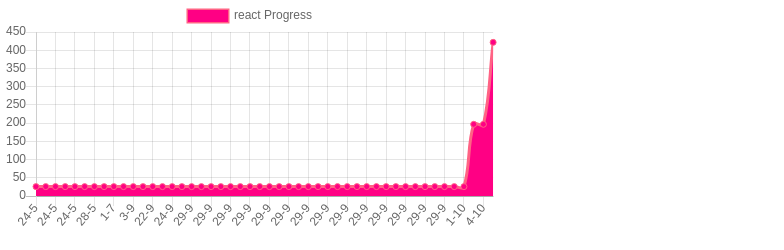
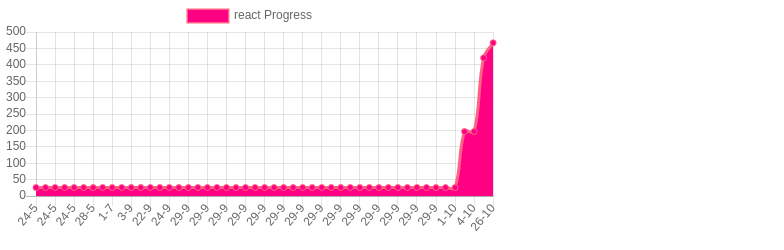
react: custom hooks with localStorage

Changed region(s): [[0.0, 0.14, 0.6429, 0.924], [0.0, 0.112, 0.0306, 0.14]]

diff --git a/total.html b/total.html
@@ -9,7 +9,7 @@
         <script src="https://cdn.jsdelivr.net/npm/chart.js@2.8.0"></script>
         <script>
           var ctx = document.getElementById("total").getContext("2d");
-          const goLabelsDates = ["2021-02-27T01:37:43.112Z","2021-02-27T01:38:01.628Z","2021-03-01T13:41:18.753Z","2021-03-01T14:53:41.991Z","2021-03-01T15:08:00.851Z","2021-03-01T15:09:10.635Z","2021-03-01T15:22:55.385Z","2021-03-03T15:31:41.151Z","2021-03-05T14:02:13.446Z","2021-03-10T14:50:13.297Z","2021-03-11T01:54:03.424Z","2021-03-11T15:32:47.647Z","2021-03-11T16:01:51.191Z","2021-03-12T00:36:04.646Z","2021-03-13T00:14:58.179Z","2021-03-16T05:30:04.043Z","2021-03-17T21:17:52.181Z","2021-03-18T03:42:56.998Z","2021-03-18T03:44:29.834Z","2021-03-18T03:45:35.160Z","2021-03-18T03:45:54.668Z","2021-03-18T03:48:46.007Z","2021-03-18T05:10:54.427Z","2021-03-18T05:44:13.724Z","2021-03-18T05:56:11.032Z","2021-03-18T22:11:28.339Z","2021-03-19T11:28:55.383Z","2021-03-22T13:51:43.977Z","2021-03-23T01:52:09.452Z","2021-03-23T15:45:53.765Z","2021-03-24T01:46:02.104Z","2021-03-30T10:56:50.711Z","2021-04-01T15:03:17.764Z","2021-04-01T23:15:02.096Z","2021-04-07T19:21:55.040Z","2021-04-08T15:21:14.479Z","2021-04-09T23:17:58.037Z","2021-04-09T23:32:26.341Z","2021-04-09T23:34:42.049Z","2021-04-09T23:36:18.092Z","2021-04-10T01:45:40.218Z","2021-04-12T15:41:26.676Z","2021-04-14T02:00:41.039Z","2021-04-14T20:02:44.141Z","2021-04-14T21:14:15.821Z","2021-04-14T22:06:37.573Z","2021-04-14T22:42:14.693Z","2021-04-14T23:10:13.243Z","2021-04-14T23:22:54.824Z","2021-04-14T23:49:37.009Z","2021-04-15T02:28:51.974Z","2021-04-15T14:33:50.618Z","2021-04-15T15:09:11.104Z","2021-04-15T20:35:30.580Z","2021-04-16T00:04:33.158Z","2021-04-16T01:36:06.294Z","2021-04-16T01:53:35.992Z","2021-04-16T02:00:15.474Z","2021-04-16T16:08:40.977Z","2021-04-16T16:27:06.953Z","2021-04-16T16:59:30.526Z","2021-04-16T17:00:53.737Z","2021-04-16T23:14:36.283Z","2021-04-17T00:39:16.890Z","2021-04-17T01:11:09.986Z","2021-04-17T01:32:30.011Z","2021-04-17T01:44:22.446Z","2021-04-17T01:44:33.941Z","2021-04-17T02:35:55.774Z","2021-04-19T15:41:31.091Z","2021-04-20T15:32:32.239Z","2021-04-20T15:33:16.014Z","2021-04-20T15:36:11.438Z","2021-04-20T15:38:44.606Z","2021-04-20T15:41:50.350Z","2021-04-20T15:44:34.448Z","2021-04-20T15:46:49.295Z","2021-04-20T15:47:24.048Z","2021-04-20T15:56:22.046Z","2021-04-20T16:00:02.540Z","2021-04-20T16:01:15.511Z","2021-04-20T23:19:23.938Z","2021-04-21T00:40:54.443Z","2021-04-21T00:47:22.662Z","2021-04-21T02:01:09.006Z","2021-04-21T02:19:22.734Z","2021-04-21T15:53:36.038Z","2021-04-21T16:21:45.704Z","2021-04-21T16:26:32.790Z","2021-04-21T16:40:24.916Z","2021-04-21T16:43:40.235Z","2021-04-21T16:43:59.719Z","2021-04-21T16:44:40.304Z","2021-04-21T16:46:13.191Z","2021-04-21T16:48:41.898Z","2021-04-21T16:49:08.753Z","2021-04-21T16:50:32.397Z","2021-04-21T16:51:58.778Z","2021-04-23T00:49:32.826Z","2021-04-23T15:03:06.320Z","2021-04-23T15:04:13.039Z","2021-04-23T15:05:25.923Z","2021-04-23T15:11:04.285Z","2021-04-23T15:11:38.826Z","2021-04-23T15:12:05.618Z","2021-04-23T15:12:32.508Z","2021-04-23T15:13:17.058Z","2021-04-23T17:08:27.046Z","2021-04-23T18:02:30.357Z","2021-04-23T22:58:36.946Z","2021-04-23T23:00:26.027Z","2021-04-23T23:52:58.438Z","2021-04-24T01:12:51.525Z","2021-04-24T02:01:46.612Z","2021-04-26T12:46:47.336Z","2021-04-26T13:13:50.946Z","2021-04-26T13:16:04.473Z","2021-04-27T00:11:42.582Z","2021-04-30T03:26:37.101Z","2021-04-30T04:33:42.472Z","2021-04-30T05:15:42.646Z","2021-04-30T14:31:10.927Z","2021-05-04T01:51:49.907Z","2021-05-21T00:30:21.777Z","2021-05-24T15:07:09.579Z","2021-05-24T15:08:05.658Z","2021-05-24T15:22:20.903Z","2021-05-24T15:33:34.626Z","2021-05-24T15:46:16.101Z","2021-05-24T15:48:12.171Z","2021-05-24T15:53:54.498Z","2021-05-24T15:56:18.488Z","2021-05-28T22:50:32.914Z","2021-06-02T17:58:30.866Z","2021-07-01T05:04:25.826Z","2021-07-01T05:05:33.079Z","2021-09-03T16:56:54.023Z","2021-09-23T00:10:19.737Z","2021-09-23T00:54:30.987Z","2021-09-25T00:13:33.106Z","2021-09-25T00:56:09.874Z","2021-09-29T20:37:10.460Z","2021-09-29T20:39:45.107Z","2021-09-29T20:45:08.406Z","2021-09-29T20:45:42.995Z","2021-09-29T20:51:54.166Z","2021-09-29T21:04:45.487Z","2021-09-29T21:22:49.580Z","2021-09-29T21:23:34.860Z","2021-09-29T21:24:52.804Z","2021-09-29T21:25:12.938Z","2021-09-29T21:31:41.466Z","2021-09-29T21:32:02.856Z","2021-09-29T21:32:15.096Z","2021-09-29T21:37:01.273Z","2021-09-29T21:39:46.109Z","2021-09-29T21:40:23.862Z","2021-09-29T21:41:38.242Z","2021-09-29T21:45:36.053Z","2021-09-29T21:48:31.229Z","2021-09-29T21:49:46.414Z","2021-09-29T21:50:16.628Z","2021-09-29T21:52:23.035Z","2021-09-29T21:58:46.153Z","2021-09-29T21:59:06.075Z","2021-09-29T22:09:34.545Z","2021-09-29T22:24:59.487Z","2021-09-29T22:39:38.616Z","2021-09-29T23:07:40.178Z","2021-10-01T13:21:48.217Z","2021-10-01T14:11:47.682Z","2021-10-05T00:24:42.303Z","2021-10-05T14:36:34.233Z","2021-10-05T15:30:47.628Z","2021-10-13T14:16:32.194Z","2021-10-14T20:31:14.540Z","2021-10-15T02:04:50.667Z","2021-10-22T22:01:46.214Z","2021-10-26T00:04:54.365Z","2021-10-26T00:05:44.432Z",];
+          const goLabelsDates = ["2021-02-27T01:37:43.112Z","2021-02-27T01:38:01.628Z","2021-03-01T13:41:18.753Z","2021-03-01T14:53:41.991Z","2021-03-01T15:08:00.851Z","2021-03-01T15:09:10.635Z","2021-03-01T15:22:55.385Z","2021-03-03T15:31:41.151Z","2021-03-05T14:02:13.446Z","2021-03-10T14:50:13.297Z","2021-03-11T01:54:03.424Z","2021-03-11T15:32:47.647Z","2021-03-11T16:01:51.191Z","2021-03-12T00:36:04.646Z","2021-03-13T00:14:58.179Z","2021-03-16T05:30:04.043Z","2021-03-17T21:17:52.181Z","2021-03-18T03:42:56.998Z","2021-03-18T03:44:29.834Z","2021-03-18T03:45:35.160Z","2021-03-18T03:45:54.668Z","2021-03-18T03:48:46.007Z","2021-03-18T05:10:54.427Z","2021-03-18T05:44:13.724Z","2021-03-18T05:56:11.032Z","2021-03-18T22:11:28.339Z","2021-03-19T11:28:55.383Z","2021-03-22T13:51:43.977Z","2021-03-23T01:52:09.452Z","2021-03-23T15:45:53.765Z","2021-03-24T01:46:02.104Z","2021-03-30T10:56:50.711Z","2021-04-01T15:03:17.764Z","2021-04-01T23:15:02.096Z","2021-04-07T19:21:55.040Z","2021-04-08T15:21:14.479Z","2021-04-09T23:17:58.037Z","2021-04-09T23:32:26.341Z","2021-04-09T23:34:42.049Z","2021-04-09T23:36:18.092Z","2021-04-10T01:45:40.218Z","2021-04-12T15:41:26.676Z","2021-04-14T02:00:41.039Z","2021-04-14T20:02:44.141Z","2021-04-14T21:14:15.821Z","2021-04-14T22:06:37.573Z","2021-04-14T22:42:14.693Z","2021-04-14T23:10:13.243Z","2021-04-14T23:22:54.824Z","2021-04-14T23:49:37.009Z","2021-04-15T02:28:51.974Z","2021-04-15T14:33:50.618Z","2021-04-15T15:09:11.104Z","2021-04-15T20:35:30.580Z","2021-04-16T00:04:33.158Z","2021-04-16T01:36:06.294Z","2021-04-16T01:53:35.992Z","2021-04-16T02:00:15.474Z","2021-04-16T16:08:40.977Z","2021-04-16T16:27:06.953Z","2021-04-16T16:59:30.526Z","2021-04-16T17:00:53.737Z","2021-04-16T23:14:36.283Z","2021-04-17T00:39:16.890Z","2021-04-17T01:11:09.986Z","2021-04-17T01:32:30.011Z","2021-04-17T01:44:22.446Z","2021-04-17T01:44:33.941Z","2021-04-17T02:35:55.774Z","2021-04-19T15:41:31.091Z","2021-04-20T15:32:32.239Z","2021-04-20T15:33:16.014Z","2021-04-20T15:36:11.438Z","2021-04-20T15:38:44.606Z","2021-04-20T15:41:50.350Z","2021-04-20T15:44:34.448Z","2021-04-20T15:46:49.295Z","2021-04-20T15:47:24.048Z","2021-04-20T15:56:22.046Z","2021-04-20T16:00:02.540Z","2021-04-20T16:01:15.511Z","2021-04-20T23:19:23.938Z","2021-04-21T00:40:54.443Z","2021-04-21T00:47:22.662Z","2021-04-21T02:01:09.006Z","2021-04-21T02:19:22.734Z","2021-04-21T15:53:36.038Z","2021-04-21T16:21:45.704Z","2021-04-21T16:26:32.790Z","2021-04-21T16:40:24.916Z","2021-04-21T16:43:40.235Z","2021-04-21T16:43:59.719Z","2021-04-21T16:44:40.304Z","2021-04-21T16:46:13.191Z","2021-04-21T16:48:41.898Z","2021-04-21T16:49:08.753Z","2021-04-21T16:50:32.397Z","2021-04-21T16:51:58.778Z","2021-04-23T00:49:32.826Z","2021-04-23T15:03:06.320Z","2021-04-23T15:04:13.039Z","2021-04-23T15:05:25.923Z","2021-04-23T15:11:04.285Z","2021-04-23T15:11:38.826Z","2021-04-23T15:12:05.618Z","2021-04-23T15:12:32.508Z","2021-04-23T15:13:17.058Z","2021-04-23T17:08:27.046Z","2021-04-23T18:02:30.357Z","2021-04-23T22:58:36.946Z","2021-04-23T23:00:26.027Z","2021-04-23T23:52:58.438Z","2021-04-24T01:12:51.525Z","2021-04-24T02:01:46.612Z","2021-04-26T12:46:47.336Z","2021-04-26T13:13:50.946Z","2021-04-26T13:16:04.473Z","2021-04-27T00:11:42.582Z","2021-04-30T03:26:37.101Z","2021-04-30T04:33:42.472Z","2021-04-30T05:15:42.646Z","2021-04-30T14:31:10.927Z","2021-05-04T01:51:49.907Z","2021-05-21T00:30:21.777Z","2021-05-24T15:07:09.579Z","2021-05-24T15:08:05.658Z","2021-05-24T15:22:20.903Z","2021-05-24T15:33:34.626Z","2021-05-24T15:46:16.101Z","2021-05-24T15:48:12.171Z","2021-05-24T15:53:54.498Z","2021-05-24T15:56:18.488Z","2021-05-28T22:50:32.914Z","2021-06-02T17:58:30.866Z","2021-07-01T05:04:25.826Z","2021-07-01T05:05:33.079Z","2021-09-03T16:56:54.023Z","2021-09-23T00:10:19.737Z","2021-09-23T00:54:30.987Z","2021-09-25T00:13:33.106Z","2021-09-25T00:56:09.874Z","2021-09-29T20:37:10.460Z","2021-09-29T20:39:45.107Z","2021-09-29T20:45:08.406Z","2021-09-29T20:45:42.995Z","2021-09-29T20:51:54.166Z","2021-09-29T21:04:45.487Z","2021-09-29T21:22:49.580Z","2021-09-29T21:23:34.860Z","2021-09-29T21:24:52.804Z","2021-09-29T21:25:12.938Z","2021-09-29T21:31:41.466Z","2021-09-29T21:32:02.856Z","2021-09-29T21:32:15.096Z","2021-09-29T21:37:01.273Z","2021-09-29T21:39:46.109Z","2021-09-29T21:40:23.862Z","2021-09-29T21:41:38.242Z","2021-09-29T21:45:36.053Z","2021-09-29T21:48:31.229Z","2021-09-29T21:49:46.414Z","2021-09-29T21:50:16.628Z","2021-09-29T21:52:23.035Z","2021-09-29T21:58:46.153Z","2021-09-29T21:59:06.075Z","2021-09-29T22:09:34.545Z","2021-09-29T22:24:59.487Z","2021-09-29T22:39:38.616Z","2021-09-29T23:07:40.178Z","2021-10-01T13:21:48.217Z","2021-10-01T14:11:47.682Z","2021-10-05T00:24:42.303Z","2021-10-05T14:36:34.233Z","2021-10-05T15:30:47.628Z","2021-10-13T14:16:32.194Z","2021-10-14T20:31:14.540Z","2021-10-15T02:04:50.667Z","2021-10-22T22:01:46.214Z","2021-10-26T00:04:54.365Z","2021-10-26T00:05:44.432Z","2021-10-26T13:52:24.065Z",];
           var chart = new Chart(ctx, {
             type: 'line',
             data: {
@@ -18,7 +18,7 @@
                 label: 'total Progress',
                 backgroundColor: 'rgb(255, 0, 132)',
                 borderColor: 'rgb(255, 99, 132)',
-                data: [7975,7975,8307,8526,8526,8527,8573,9171,9358,9751,9908,10232,10231,10643,10911,11353,12576,12666,0,0,169,12835,12906,12953,12953,13141,13254,13354,13406,13417,13568,13708,13845,14886,15140,15267,15766,15777,15777,15777,16211,16345,17062,17247,17324,17464,17697,17849,17916,18002,18002,18202,18292,18515,18590,18744,18837,18876,19030,19086,19114,19143,19378,19465,19607,19714,19782,19782,19791,20220,20257,20257,20257,20257,20257,20257,20257,20257,20257,20257,20257,21179,21238,21279,21319,21319,21430,21506,21543,65995,0,44452,44452,44452,20233,20233,1629,23172,23326,23693,23693,23693,23693,23693,23693,23693,23693,23693,23693,23693,23693,23905,24023,24262,24275,24376,24376,24452,25078,25182,25238,25232,25233,25334,23696,25427,25453,25466,25491,11565,5707,5707,4421,4535,4535,3678,3678,3678,5861,5318,5422,5473,12667,12667,12667,12667,12667,12667,12667,12667,12667,12667,12667,12667,12667,12667,12667,12667,12667,12667,12658,12658,12657,12657,12657,12657,12683,12736,12779,12888,2619,2775,9772,9922,10674,1795,1824,2002,2000,422,]
+                data: [7975,7975,8307,8526,8526,8527,8573,9171,9358,9751,9908,10232,10231,10643,10911,11353,12576,12666,0,0,169,12835,12906,12953,12953,13141,13254,13354,13406,13417,13568,13708,13845,14886,15140,15267,15766,15777,15777,15777,16211,16345,17062,17247,17324,17464,17697,17849,17916,18002,18002,18202,18292,18515,18590,18744,18837,18876,19030,19086,19114,19143,19378,19465,19607,19714,19782,19782,19791,20220,20257,20257,20257,20257,20257,20257,20257,20257,20257,20257,20257,21179,21238,21279,21319,21319,21430,21506,21543,65995,0,44452,44452,44452,20233,20233,1629,23172,23326,23693,23693,23693,23693,23693,23693,23693,23693,23693,23693,23693,23693,23905,24023,24262,24275,24376,24376,24452,25078,25182,25238,25232,25233,25334,23696,25427,25453,25466,25491,11565,5707,5707,4421,4535,4535,3678,3678,3678,5861,5318,5422,5473,12667,12667,12667,12667,12667,12667,12667,12667,12667,12667,12667,12667,12667,12667,12667,12667,12667,12667,12658,12658,12657,12657,12657,12657,12683,12736,12779,12888,2619,2775,9772,9922,10674,1795,1824,2002,2000,422,468,]
               }]
             },
           });

diff --git a/react.html b/react.html
@@ -9,7 +9,7 @@
         <script src="https://cdn.jsdelivr.net/npm/chart.js@2.8.0"></script>
         <script>
           var ctx = document.getElementById("react").getContext("2d");
-          const goLabelsDates = ["2021-05-24T15:22:20.900Z","2021-05-24T15:33:34.624Z","2021-05-24T15:46:16.099Z","2021-05-24T15:48:12.170Z","2021-05-24T15:53:54.498Z","2021-05-24T15:56:18.484Z","2021-05-28T22:50:32.912Z","2021-06-02T17:58:30.865Z","2021-07-01T05:04:25.823Z","2021-07-01T05:05:33.078Z","2021-09-03T16:56:54.022Z","2021-09-23T00:10:19.736Z","2021-09-23T00:54:30.986Z","2021-09-25T00:13:33.104Z","2021-09-25T00:56:09.872Z","2021-09-29T20:37:10.455Z","2021-09-29T20:39:45.106Z","2021-09-29T20:45:08.405Z","2021-09-29T20:45:42.992Z","2021-09-29T20:51:54.164Z","2021-09-29T21:04:45.485Z","2021-09-29T21:22:49.578Z","2021-09-29T21:23:34.858Z","2021-09-29T21:24:52.803Z","2021-09-29T21:25:12.936Z","2021-09-29T21:31:41.463Z","2021-09-29T21:32:02.853Z","2021-09-29T21:32:15.094Z","2021-09-29T21:36:24.777Z","2021-09-29T21:37:01.271Z","2021-09-29T21:39:46.106Z","2021-09-29T21:40:23.860Z","2021-09-29T21:41:38.229Z","2021-09-29T21:45:36.048Z","2021-09-29T21:48:31.220Z","2021-09-29T21:49:46.410Z","2021-09-29T21:50:16.623Z","2021-09-29T21:52:23.031Z","2021-09-29T21:58:46.149Z","2021-09-29T21:59:06.072Z","2021-09-29T22:09:34.541Z","2021-09-29T22:24:59.483Z","2021-09-29T22:39:38.613Z","2021-09-29T23:07:40.174Z","2021-10-01T13:21:48.213Z","2021-10-01T14:11:47.678Z","2021-10-05T00:24:42.298Z","2021-10-26T00:05:44.428Z",];
+          const goLabelsDates = ["2021-05-24T15:22:20.900Z","2021-05-24T15:33:34.624Z","2021-05-24T15:46:16.099Z","2021-05-24T15:48:12.170Z","2021-05-24T15:53:54.498Z","2021-05-24T15:56:18.484Z","2021-05-28T22:50:32.912Z","2021-06-02T17:58:30.865Z","2021-07-01T05:04:25.823Z","2021-07-01T05:05:33.078Z","2021-09-03T16:56:54.022Z","2021-09-23T00:10:19.736Z","2021-09-23T00:54:30.986Z","2021-09-25T00:13:33.104Z","2021-09-25T00:56:09.872Z","2021-09-29T20:37:10.455Z","2021-09-29T20:39:45.106Z","2021-09-29T20:45:08.405Z","2021-09-29T20:45:42.992Z","2021-09-29T20:51:54.164Z","2021-09-29T21:04:45.485Z","2021-09-29T21:22:49.578Z","2021-09-29T21:23:34.858Z","2021-09-29T21:24:52.803Z","2021-09-29T21:25:12.936Z","2021-09-29T21:31:41.463Z","2021-09-29T21:32:02.853Z","2021-09-29T21:32:15.094Z","2021-09-29T21:36:24.777Z","2021-09-29T21:37:01.271Z","2021-09-29T21:39:46.106Z","2021-09-29T21:40:23.860Z","2021-09-29T21:41:38.229Z","2021-09-29T21:45:36.048Z","2021-09-29T21:48:31.220Z","2021-09-29T21:49:46.410Z","2021-09-29T21:50:16.623Z","2021-09-29T21:52:23.031Z","2021-09-29T21:58:46.149Z","2021-09-29T21:59:06.072Z","2021-09-29T22:09:34.541Z","2021-09-29T22:24:59.483Z","2021-09-29T22:39:38.613Z","2021-09-29T23:07:40.174Z","2021-10-01T13:21:48.213Z","2021-10-01T14:11:47.678Z","2021-10-05T00:24:42.298Z","2021-10-26T00:05:44.428Z","2021-10-26T13:52:24.062Z",];
           var chart = new Chart(ctx, {
             type: 'line',
             data: {
@@ -18,7 +18,7 @@
                 label: 'react Progress',
                 backgroundColor: 'rgb(255, 0, 132)',
                 borderColor: 'rgb(255, 99, 132)',
-                data: [26,26,26,26,26,26,26,26,26,26,26,26,26,26,26,26,26,26,26,26,26,26,26,26,26,26,26,26,26,26,26,26,26,26,26,26,26,26,26,26,26,26,26,26,26,197,197,422,]
+                data: [26,26,26,26,26,26,26,26,26,26,26,26,26,26,26,26,26,26,26,26,26,26,26,26,26,26,26,26,26,26,26,26,26,26,26,26,26,26,26,26,26,26,26,26,26,197,197,422,468,]
               }]
             },
           });

diff --git a/Readme.md b/Readme.md
@@ -1,11 +1,11 @@
 # All count
 |Language|Goal|Lines%|%|%|%|Subjects|
 |----------|-------|-------|--------|--------|--------|--------|
-|react|1000|422|42|![react](https://raw.githubusercontent.com/kapit4n/l-10000-dev/master/react.png)|Testing, builds|react context local staorage, react context update, react context, react hooks tips, react hooks, components|
-|TOTAL|422|4.220%|
+|react|1000|468|47|![react](https://raw.githubusercontent.com/kapit4n/l-10000-dev/master/react.png)|Testing, builds|react context local staorage, react context update, react context, react custom hook, react hooks tips, react hooks, components|
+|TOTAL|468|4.680%|
 10/02(0)
 
-10/03(422)
+10/03(468)
 
 
   # run it
@@ -28,4 +28,4 @@
   * Angular, React, Vue
   * Spring, Play
   * Scala, Java
-  , 2021-10-26T00:05:44.432Z
+  , 2021-10-26T13:52:24.065Z
